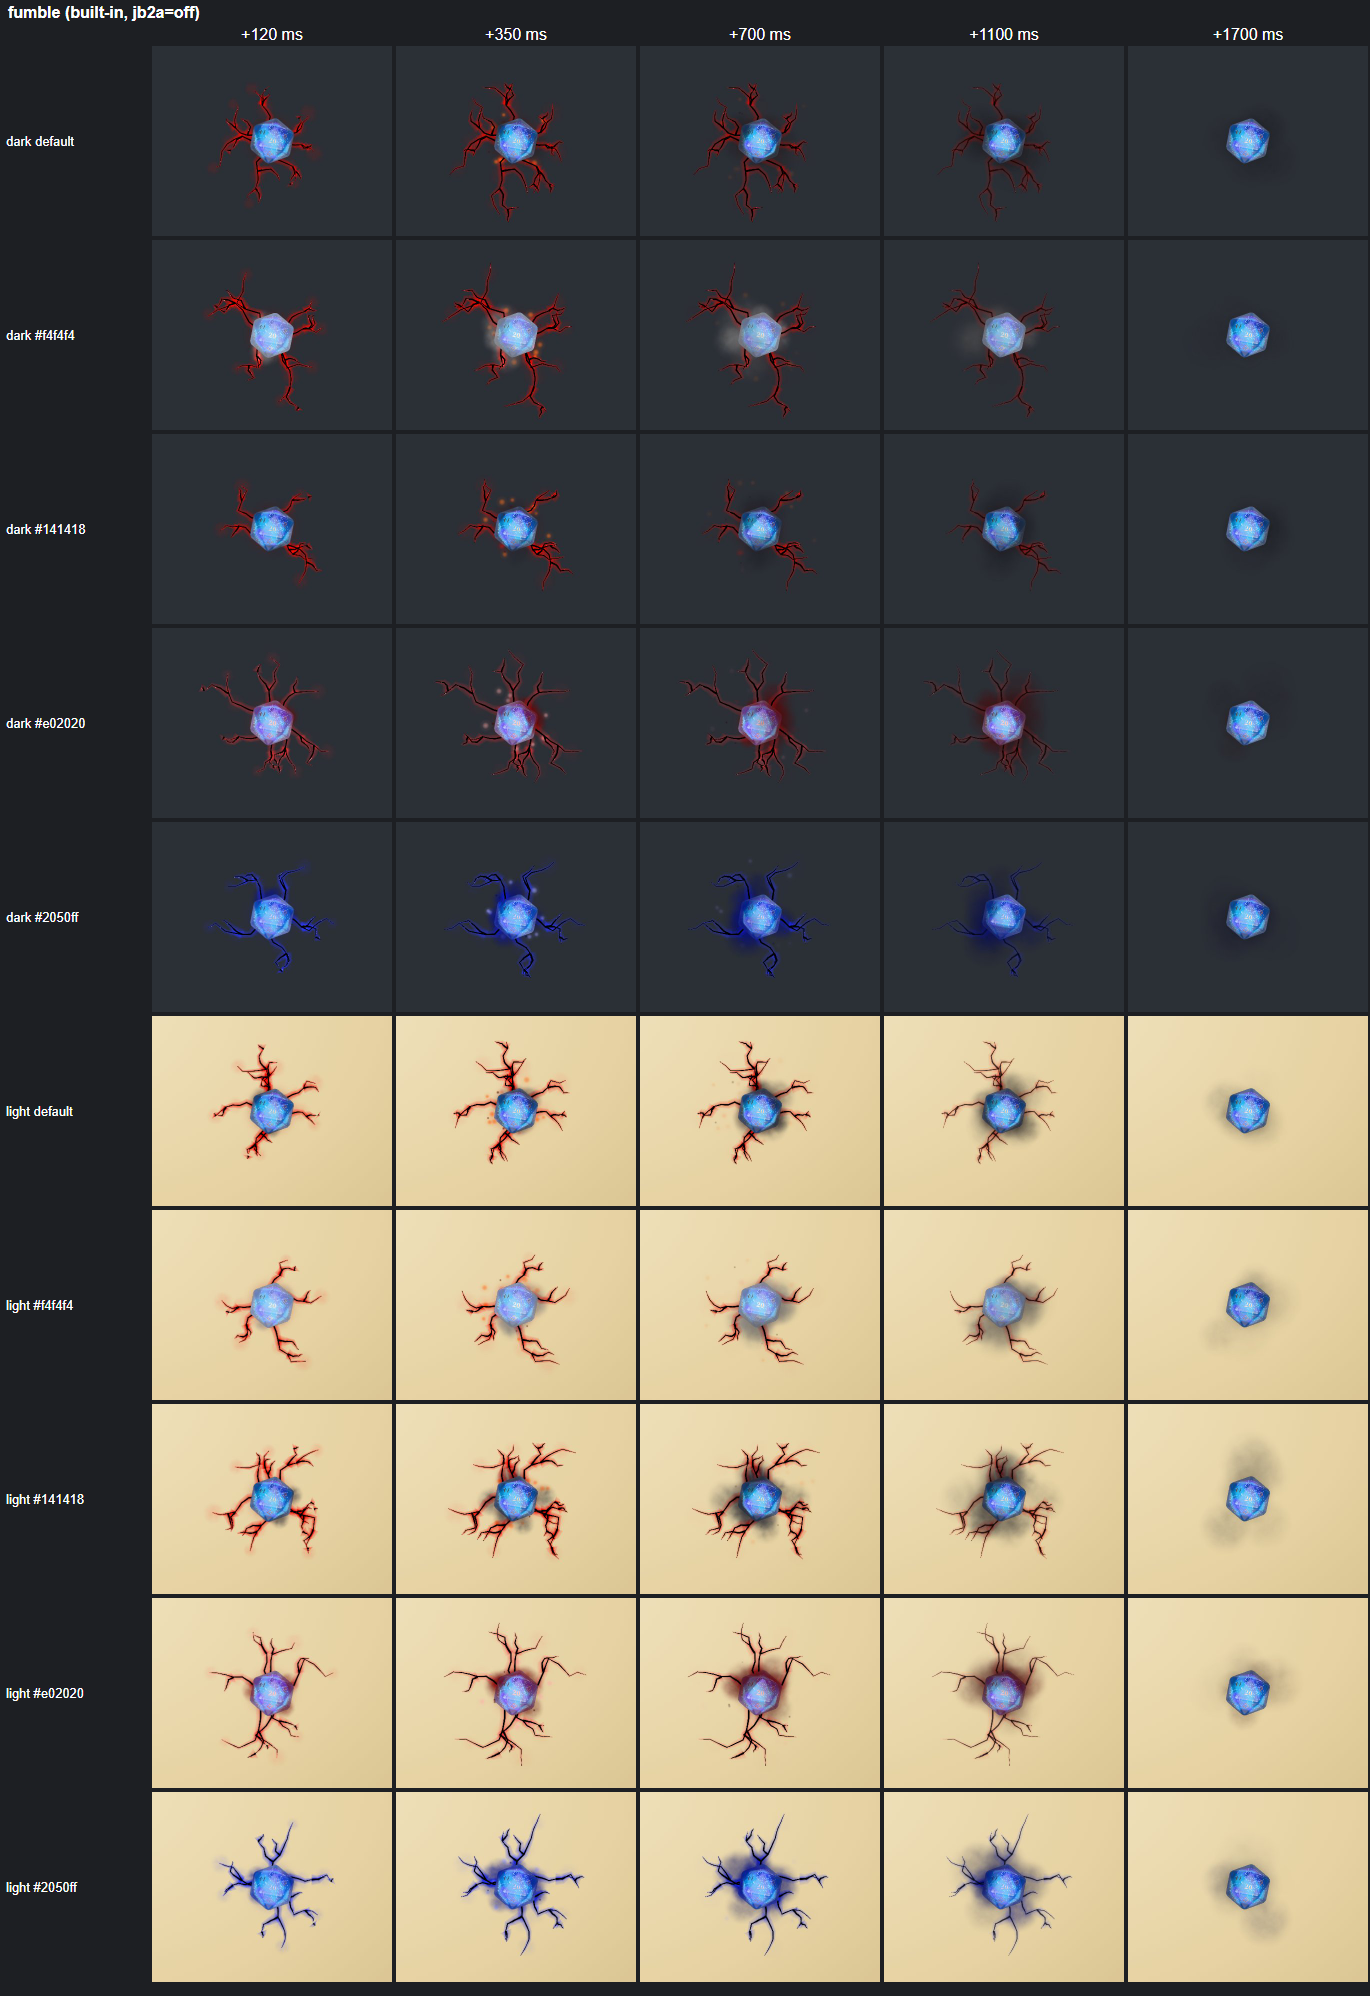
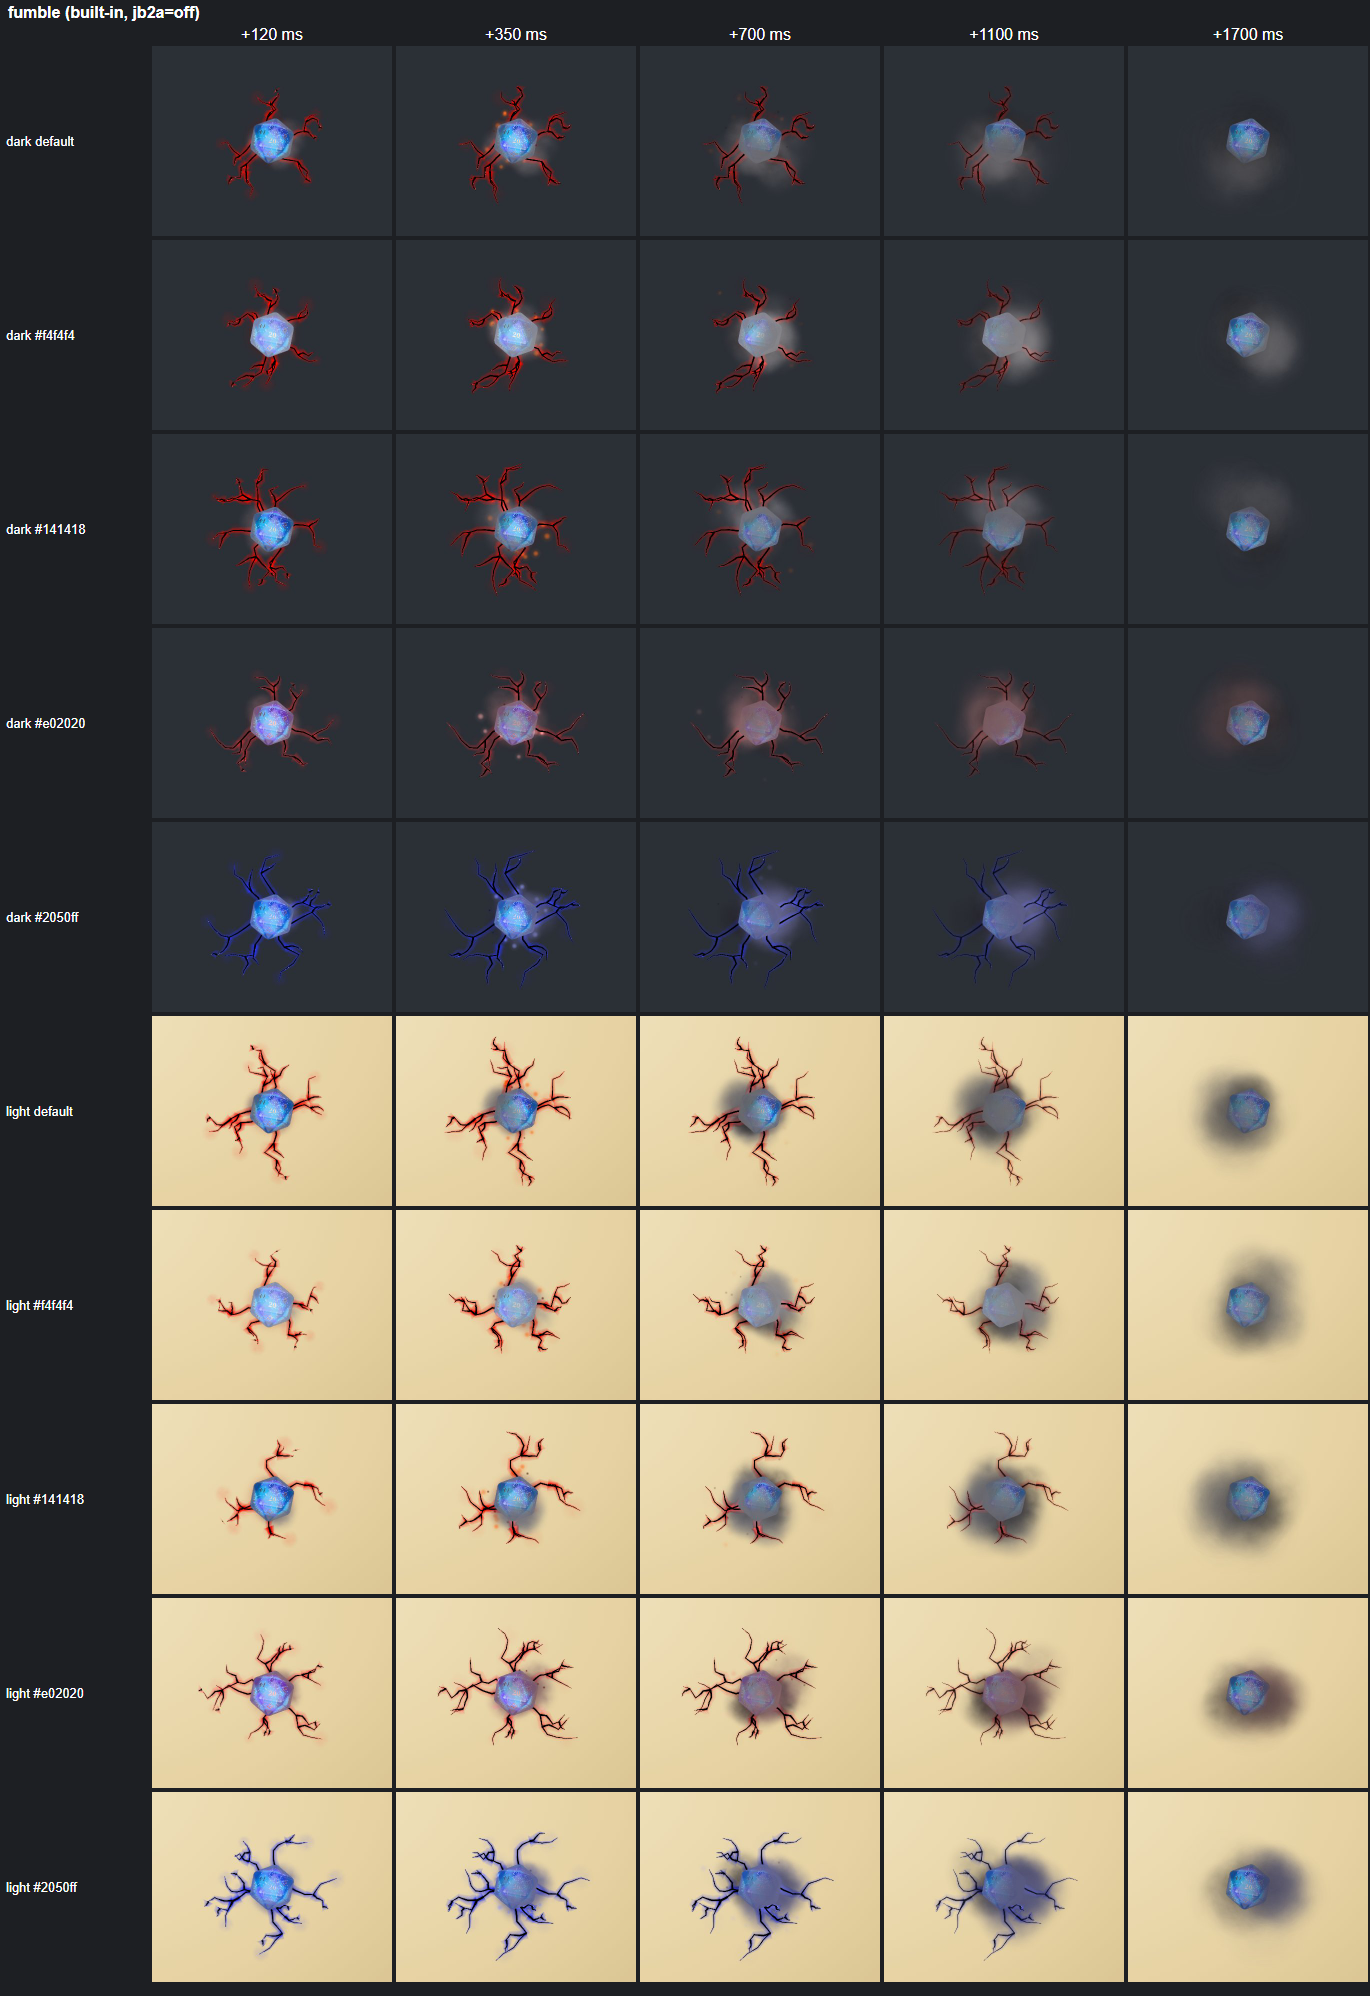
fix(fx): fumble smoke as a visible mid-grey plume with soot edges
The plume is a smoky mid-grey, set as its displayed value, tinted 18% toward
the die. It reads lighter than a dark table and darker than a light map.
Puffs are big and long-lived; the plume leans one way per play, rises past
the die and sags. From a quarter of the way in, darker soot puffs roll out
low around it. The colour test now checks contrast with both backdrops and
puff size/life; the crack test checks that the underglow plane is removed
on stop().

diff --git a/tests/unit/catalogue.test.js b/tests/unit/catalogue.test.js
@@ -574,8 +574,15 @@ describe('fumble parts', () => {
     const version = core.geometry.getAttribute('position').version;
     for (let t = 240; t < 1000; t += 10) h.update(t);
     expect(core.geometry.getAttribute('position').version).toBe(version);
+    const planes = () => {
+      let n = 0;
+      scene.traverse((o) => o.geometry?.type === 'PlaneGeometry' && n++);
+      return n;
+    };
+    expect(planes(), 'the ember underglow plane').toBe(1);
     h.stop();
     expect(ribbonsOf(scene)).toHaveLength(0);
+    expect(planes(), 'the underglow is gone after stop()').toBe(0);
     pool.dispose();
   });
 
@@ -589,24 +596,43 @@ describe('fumble parts', () => {
     pool.dispose();
   });
 
-  test('fumble smoke is darker, slower and heavier than the plain smoke, in any colour', () => {
-    for (const color of ['#8c8c92', '#e02020', '#f4f4f4']) {
-      const over = { color: new THREE.Color(color), options: { color } };
-      const f = play('smoke', over);
-      const s = { ctx: ctxFor(EFFECTS.smoke, over) };
-      const emit = vi.spyOn(s.ctx.particles, 'emit');
-      const hs = EFFECTS.smoke.start(s.ctx);
-      for (let t = 0; t <= 1500; t += 20) {
-        f.h.update(t);
-        hs.update(t);
+  // What a colour looks like on screen: the pool writes its (linear) colour values straight to the
+  // canvas, so a hex's linear components are its displayed sRGB values. Backdrops: the dark studio
+  // table (#2b2f36) and the light parchment map (#e6d2a2), as displayed.
+  const shown = (c) => {
+    const { r, g, b } = new THREE.Color(c);
+    return 0.2126 * r + 0.7152 * g + 0.0722 * b;
+  };
+  // A CSS backdrop's hex is already its displayed sRGB.
+  const relLum = (hex) => {
+    const n = parseInt(hex.slice(1), 16);
+    return 0.2126 * ((n >> 16) & 255) / 255 + 0.7152 * ((n >> 8) & 255) / 255 + 0.0722 * (n & 255) / 255;
+  };
+  const DARK_TABLE = relLum('#2b2f36');
+  const LIGHT_MAP = relLum('#e6d2a2');
+
+  test('fumble smoke is a mid-tone plume that contrasts with both a dark table and a light map, in any colour', () => {
+    for (const color of [null, '#f4f4f4', '#141418', '#e02020', '#2050ff']) {
+      const over = color ? { color: new THREE.Color(color), options: { color } } : {};
+      const { h, specs, pool } = play('smoke', over);
+      for (let t = 0; t <= 1500; t += 20) h.update(t);
+      const body = specs().filter((p) => p.kind === KIND.SMOKE && p.blend === 'normal');
+      // The main plume (the first emit): clearly lighter than the dark table, clearly darker than the map.
+      const main = body[0];
+      expect(shown(main.color) - DARK_TABLE, `${color} vs dark table`).toBeGreaterThan(0.15);
+      expect(LIGHT_MAP - shown(main.color), `${color} vs light map`).toBeGreaterThan(0.25);
+      // Big, long-lived puffs that grow well past the die's footprint (one edge = 1) and last out
+      // the effect; they rise (speed up) and then sag (gravity < 0).
+      for (const p of body) {
+        expect(p.size * p.sizeEnd, color).toBeGreaterThan(3);
+        expect(p.life, color).toBeGreaterThanOrEqual(1.5);
+        expect(p.gravity, color).toBeLessThan(0);
       }
-      const fs = f.specs()[0];
-      const ps = emit.mock.calls[0][0];
-      expect(lum(fs.color), color).toBeLessThan(lum(ps.color));
-      expect(fs.speed, color).toBeLessThan(ps.speed);
-      expect(fs.gravity, color).toBeLessThan(0); // it sags back down
-      f.h.stop();
-      hs.stop();
+      expect(main.speed, color).toBeGreaterThan(1.5);
+      // Darker soot at the edges: a second, darker body of puffs.
+      expect(body.some((p) => shown(p.color) < shown(main.color) - 0.1), `${color} soot`).toBe(true);
+      h.stop();
+      pool.dispose();
     }
   });
 
@@ -785,7 +811,8 @@ describe('staged celebrate and fumble', () => {
     h.update(0);
     h.update(60);
     expect(kinds(emit)).toEqual([KIND.SMOKE]);
-    expect(emit.mock.calls[0][0].colorEnd).toBe('#3a3a40');
+    const { color: c0, colorEnd: c1 } = emit.mock.calls[0][0];
+    expect(new THREE.Color(c1).getHSL({}).l).toBeLessThan(new THREE.Color(c0).getHSL({}).l); // it darkens as it ages
     expect(meshes(scene, base)).toHaveLength(0);
     expect(shakes).toHaveLength(0);
     h.update(100);

diff --git a/src/effects/library/catalogue.js b/src/effects/library/catalogue.js
@@ -453,14 +453,18 @@ export const smoke = Object.freeze({
   start: smokeStart(),
 });
 
-const FUMBLE_SMOKE_DARK = '#242226';
-const FUMBLE_SMOKE_END = '#3a3a40';
-
 /**
- * Fumble's own smoke (not in CATALOGUE): darker, heavier and slower than `smoke`. Big, opaque PUFF
- * clouds in a sooty version of the die colour (a near-black die's lit by its rim, so it shows on a
- * dark table) heave up off the die, spread wide and sag back down as they grow, curling, to grey.
+ * Fumble's own smoke (not in CATALOGUE): a heavy, curling plume that heaves up off the die and
+ * sags back. Pool colours reach the screen as their linear values, so the greys below are set as
+ * displayed values (setRGB in the linear working space): a smoky mid-grey (~0.5 on screen) that
+ * is lighter than a dark table and darker than a light map, tinted 18% toward the die (a near-black
+ * die's rim), darkening as it ages; then, from a quarter of the way in, bigger darker soot puffs
+ * low around it give the plume dark edges on either backdrop. Later than `smoke`'s rise and fall:
+ * slower to clear, and it sinks (gravity < 0) as it spreads. Normal blend, no halo.
  */
+const FUMBLE_SMOKE_GREY = new THREE.Color().setRGB(0.5, 0.49, 0.51);
+const FUMBLE_SOOT = new THREE.Color().setRGB(0.1, 0.095, 0.1);
+
 const fumbleSmoke = Object.freeze({
   ...smoke,
   id: 'fumble-smoke',
@@ -468,26 +472,52 @@ const fumbleSmoke = Object.freeze({
     if (!ctx.particles) return NOOP;
     const pal = palette(ctx.color);
     const k = sizeK(ctx);
-    const body = (pal.rim ?? ctx.color).clone().lerp(new THREE.Color(FUMBLE_SMOKE_DARK), pal.rim ? 0.55 : 0.4);
+    const D = Math.max(1, ctx.duration);
+    const body = FUMBLE_SMOKE_GREY.clone().lerp(pal.rim ?? ctx.color, 0.18);
     const calm = ctx.reducedMotion;
-    const emit = trickle(ctx, countFor(18, ctx), 0.5, {
-      origin: originOf(ctx, DIE_TOP),
-      jitter: 0.9 * k,
-      dir: { x: 0, y: 1, z: 0 },
-      speed: calm ? 0.4 : 1.6,
-      spread: 1.35, // wide: seen from above, heavy smoke rolls outward
-      gravity: -0.7, // and sinks back as it slows
-      life: 1.4,
-      color: body,
-      colorEnd: FUMBLE_SMOKE_END,
-      size: 1.1 * k,
-      sizeEnd: 2.6,
+    // The plume leans one way (a random draught per play): seen from straight above, smoke that
+    // only rises would sit on the die; leaning, it trails out past the die as it climbs.
+    const lean = Math.random() * Math.PI * 2;
+    const puff = {
       spin: calm ? 0.25 : 0.9,
       kind: KIND.SMOKE,
       shape: SHAPE.SMOKE,
       blend: 'normal',
+    };
+    const plume = trickle(ctx, countFor(24, ctx), 0.55, {
+      ...puff,
+      origin: originOf(ctx, DIE_TOP),
+      jitter: 0.6 * k,
+      dir: { x: Math.cos(lean) * 0.7, y: 1, z: Math.sin(lean) * 0.7 },
+      speed: calm ? 0.5 : 2.4, // up and out past the die...
+      spread: 0.75,
+      gravity: -0.55, // ...then it sags back as it slows
+      life: 1.7,
+      color: body,
+      colorEnd: body.clone().multiplyScalar(0.55),
+      size: 1.5 * k,
+      sizeEnd: 2.7,
     });
-    return timed(ctx.duration, emit, () => {});
+    const soot = trickle(ctx, countFor(8, ctx), 0.4, {
+      ...puff,
+      origin: originOf(ctx, DIE_Y),
+      jitter: 1.0 * k,
+      dir: { x: 0, y: 1, z: 0 },
+      speed: calm ? 0.4 : 1.2,
+      spread: 1.5, // rolling out low around the plume
+      gravity: -0.6,
+      life: 1.6,
+      color: FUMBLE_SOOT.clone().lerp(body, 0.15),
+      colorEnd: FUMBLE_SOOT,
+      size: 1.6 * k,
+      sizeEnd: 2.4,
+      alpha: 0.8,
+    });
+    const sootAt = 0.25 * D;
+    return timed(D, (e, now) => {
+      plume(e, now);
+      soot(e - sootAt, now); // nothing until a quarter of the way in
+    }, () => {});
   },
 });
 
